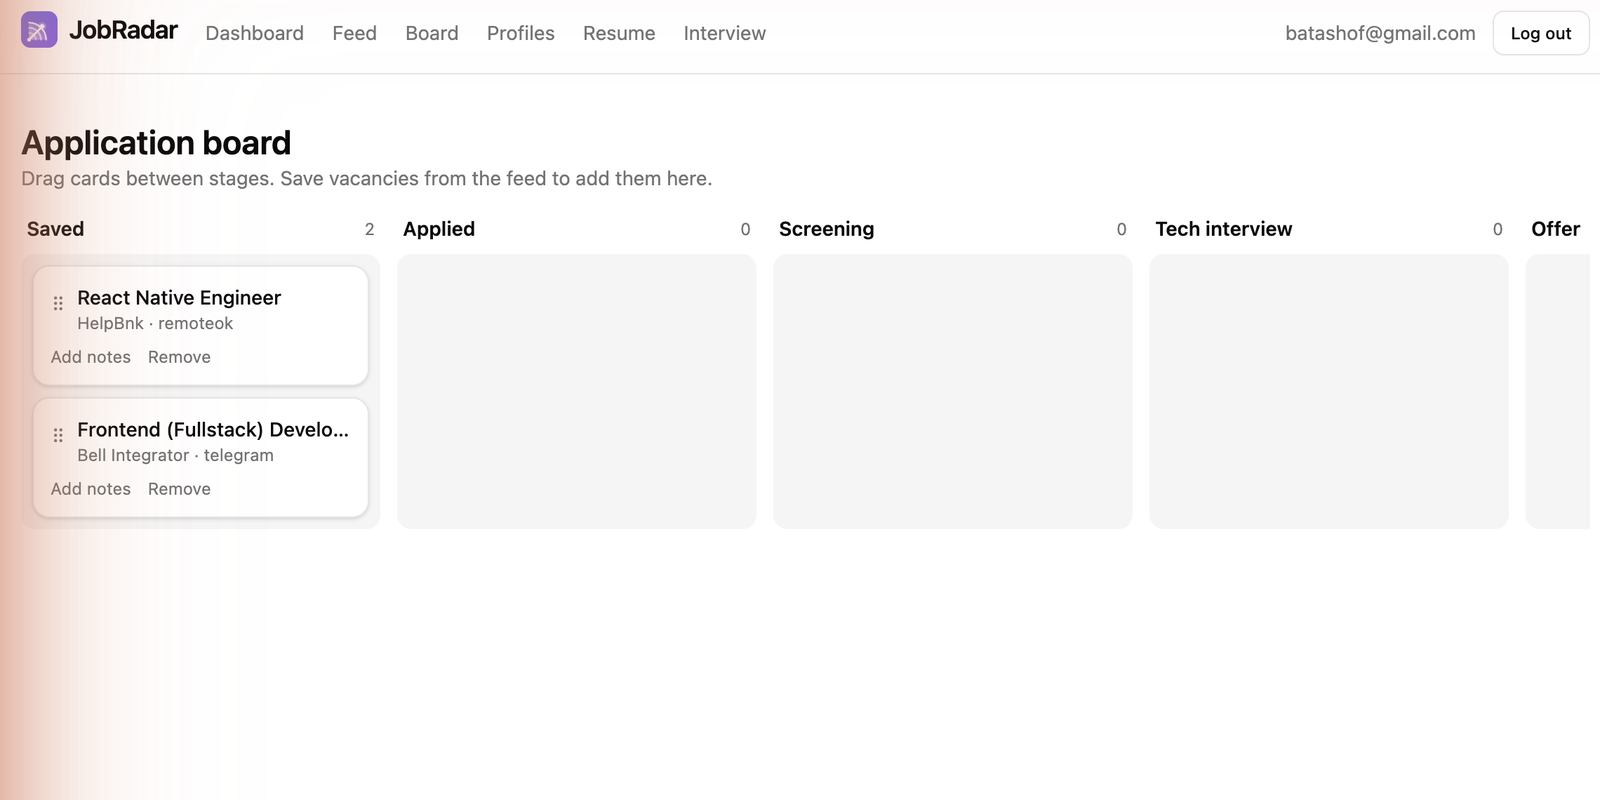
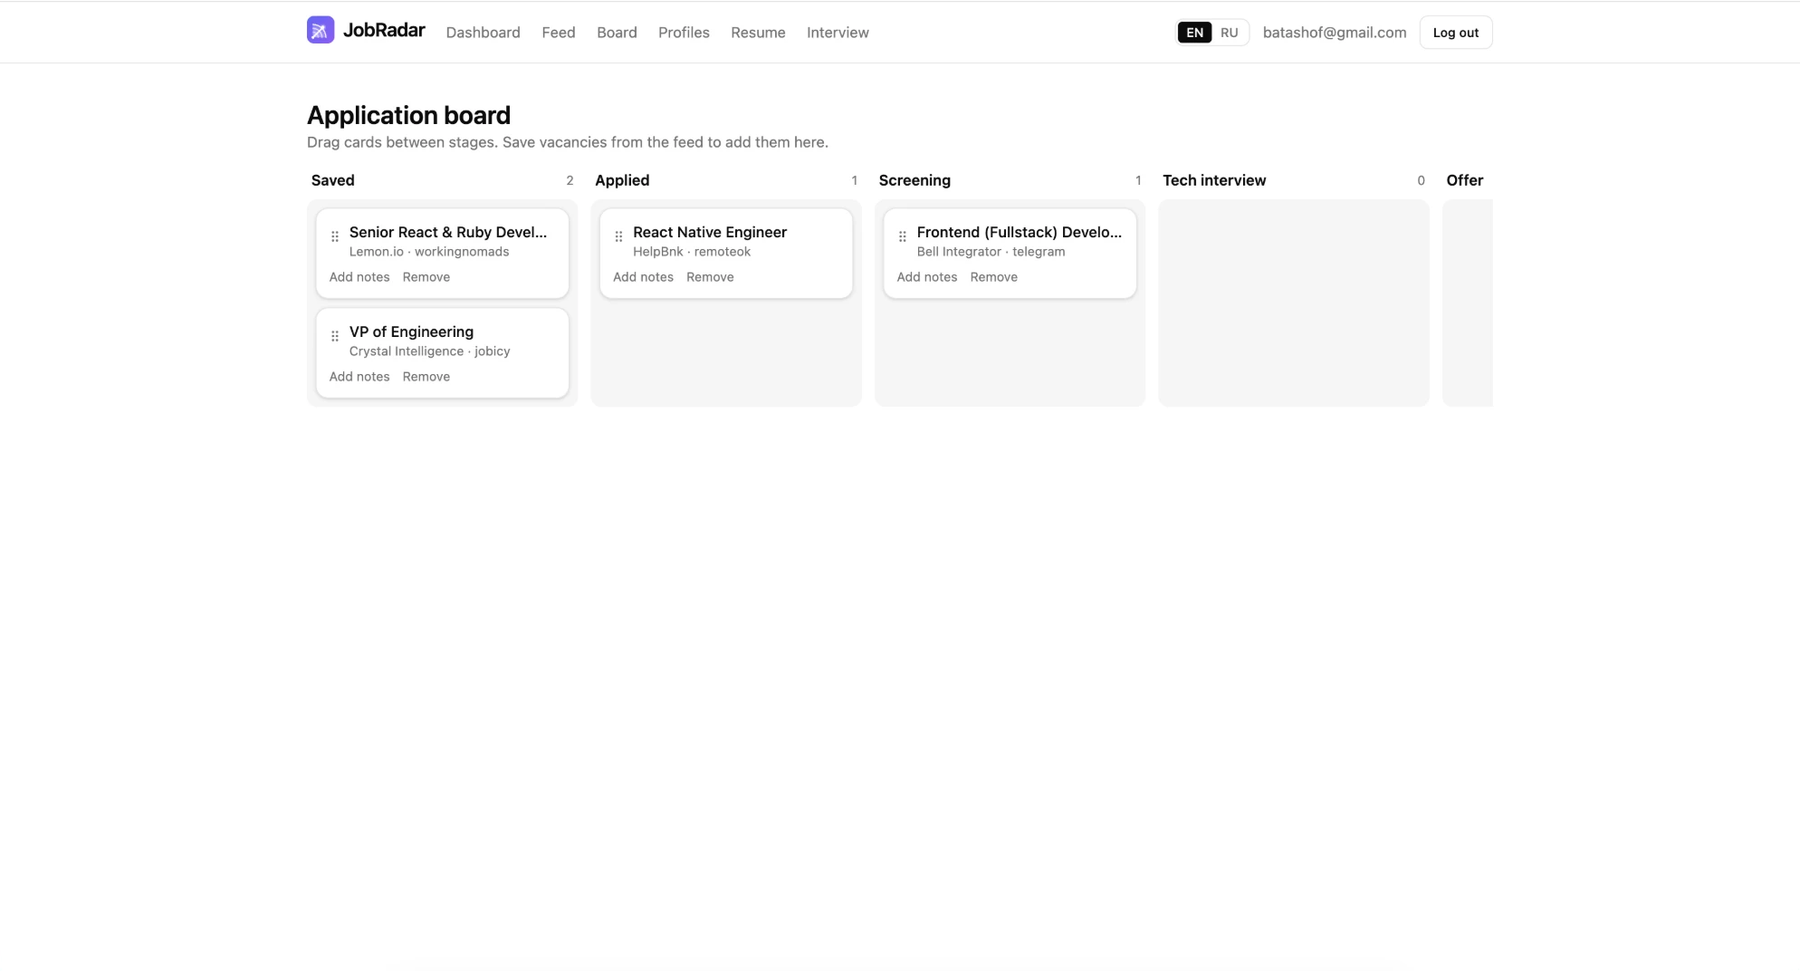
Refresh JobRadar screenshots (4, 2x2) and open them full-size in a new tab

diff --git a/index.html b/index.html
@@ -59,6 +59,8 @@
   .shots{ display:grid; grid-template-columns:1fr 1fr; gap:9px; margin-top:11px; }
   .shot{ margin:0; border:1px solid var(--line); border-radius:8px; overflow:hidden; background:#fff; }
   .shot img{ width:100%; height:auto; display:block; }
+  .shot a{ display:block; cursor:zoom-in; }
+  .shot a:hover img{ opacity:.88; }
   .shot.wide{ grid-column:1 / -1; }
   .shot figcaption{ font-size:7.6pt; color:var(--muted); padding:3px 8px; border-top:1px solid var(--line); background:var(--bg); }
 
@@ -184,10 +186,11 @@
     <div class="tags">
       <span>TypeScript</span><span>Next.js</span><span>React</span><span>NestJS</span><span>PostgreSQL</span><span>Drizzle</span><span>BullMQ / Redis</span><span>Tailwind</span><span>dnd-kit</span><span>Telegram MTProto</span><span>LLM (Groq / Gemini)</span><span>Vercel + Render</span>
     </div>
-    <div class="shots" style="grid-template-columns:1fr 1fr 1fr; margin-top:11px;">
-      <figure class="shot"><img src="portfolio_assets/jobradar-feed.png" alt="Aggregated vacancy feed"><figcaption>Aggregated feed — 6+ sources, per-source filters, full-text search.</figcaption></figure>
-      <figure class="shot"><img src="portfolio_assets/jobradar-board.png" alt="Application kanban"><figcaption>Kanban application tracker across the funnel.</figcaption></figure>
-      <figure class="shot"><img src="portfolio_assets/jobradar-interview.png" alt="AI interview prep"><figcaption>Resume-driven interview prep — AI-generated study plan, questions and a mock interview.</figcaption></figure>
+    <div class="shots" style="margin-top:11px;">
+      <figure class="shot"><a href="portfolio_assets/jobradar-feed.png" target="_blank" rel="noopener"><img src="portfolio_assets/jobradar-feed.png" alt="Aggregated vacancy feed"></a><figcaption>Aggregated feed — 6+ sources, per-source filters, full-text search.</figcaption></figure>
+      <figure class="shot"><a href="portfolio_assets/jobradar-apply.png" target="_blank" rel="noopener"><img src="portfolio_assets/jobradar-apply.png" alt="AI apply assistant"></a><figcaption>AI apply assistant — resume ↔ vacancy fit score, generated brief and cover letter.</figcaption></figure>
+      <figure class="shot"><a href="portfolio_assets/jobradar-board.png" target="_blank" rel="noopener"><img src="portfolio_assets/jobradar-board.png" alt="Application kanban"></a><figcaption>Kanban application tracker across the funnel.</figcaption></figure>
+      <figure class="shot"><a href="portfolio_assets/jobradar-interview.png" target="_blank" rel="noopener"><img src="portfolio_assets/jobradar-interview.png" alt="AI interview prep"></a><figcaption>Resume-driven interview prep — AI-generated study plan, questions and a mock interview.</figcaption></figure>
     </div>
   </div>
 

diff --git a/ru.html b/ru.html
@@ -54,6 +54,8 @@
   .shots{ display:grid; grid-template-columns:1fr 1fr; gap:9px; margin-top:11px; }
   .shot{ margin:0; border:1px solid var(--line); border-radius:8px; overflow:hidden; background:#fff; }
   .shot img{ width:100%; height:auto; display:block; }
+  .shot a{ display:block; cursor:zoom-in; }
+  .shot a:hover img{ opacity:.88; }
   .shot.wide{ grid-column:1 / -1; }
   .shot figcaption{ font-size:7.6pt; color:var(--muted); padding:3px 8px; border-top:1px solid var(--line); background:var(--bg); }
 
@@ -178,10 +180,11 @@
     <div class="tags">
       <span>TypeScript</span><span>Next.js</span><span>React</span><span>NestJS</span><span>PostgreSQL</span><span>Drizzle</span><span>BullMQ / Redis</span><span>Tailwind</span><span>dnd-kit</span><span>Telegram MTProto</span><span>LLM (Groq / Gemini)</span><span>Vercel + Render</span>
     </div>
-    <div class="shots" style="grid-template-columns:1fr 1fr 1fr; margin-top:11px;">
-      <figure class="shot"><img src="portfolio_assets/jobradar-feed.png" alt="Лента вакансий"><figcaption>Лента-агрегатор — 6+ источников, фильтры по источнику, полнотекстовый поиск.</figcaption></figure>
-      <figure class="shot"><img src="portfolio_assets/jobradar-board.png" alt="Канбан заявок"><figcaption>Канбан-трекер заявок по воронке.</figcaption></figure>
-      <figure class="shot"><img src="portfolio_assets/jobradar-interview.png" alt="AI-подготовка к интервью"><figcaption>Resume-driven подготовка к интервью — AI-план, вопросы и mock-интервью.</figcaption></figure>
+    <div class="shots" style="margin-top:11px;">
+      <figure class="shot"><a href="portfolio_assets/jobradar-feed.png" target="_blank" rel="noopener"><img src="portfolio_assets/jobradar-feed.png" alt="Лента вакансий"></a><figcaption>Лента-агрегатор — 6+ источников, фильтры по источнику, полнотекстовый поиск.</figcaption></figure>
+      <figure class="shot"><a href="portfolio_assets/jobradar-apply.png" target="_blank" rel="noopener"><img src="portfolio_assets/jobradar-apply.png" alt="AI-ассистент отклика"></a><figcaption>AI-ассистент отклика — оценка соответствия резюме, разбор вакансии и сопроводительное письмо.</figcaption></figure>
+      <figure class="shot"><a href="portfolio_assets/jobradar-board.png" target="_blank" rel="noopener"><img src="portfolio_assets/jobradar-board.png" alt="Канбан заявок"></a><figcaption>Канбан-трекер заявок по воронке.</figcaption></figure>
+      <figure class="shot"><a href="portfolio_assets/jobradar-interview.png" target="_blank" rel="noopener"><img src="portfolio_assets/jobradar-interview.png" alt="AI-подготовка к интервью"></a><figcaption>Resume-driven подготовка к интервью — AI-план, вопросы и mock-интервью.</figcaption></figure>
     </div>
   </div>
 